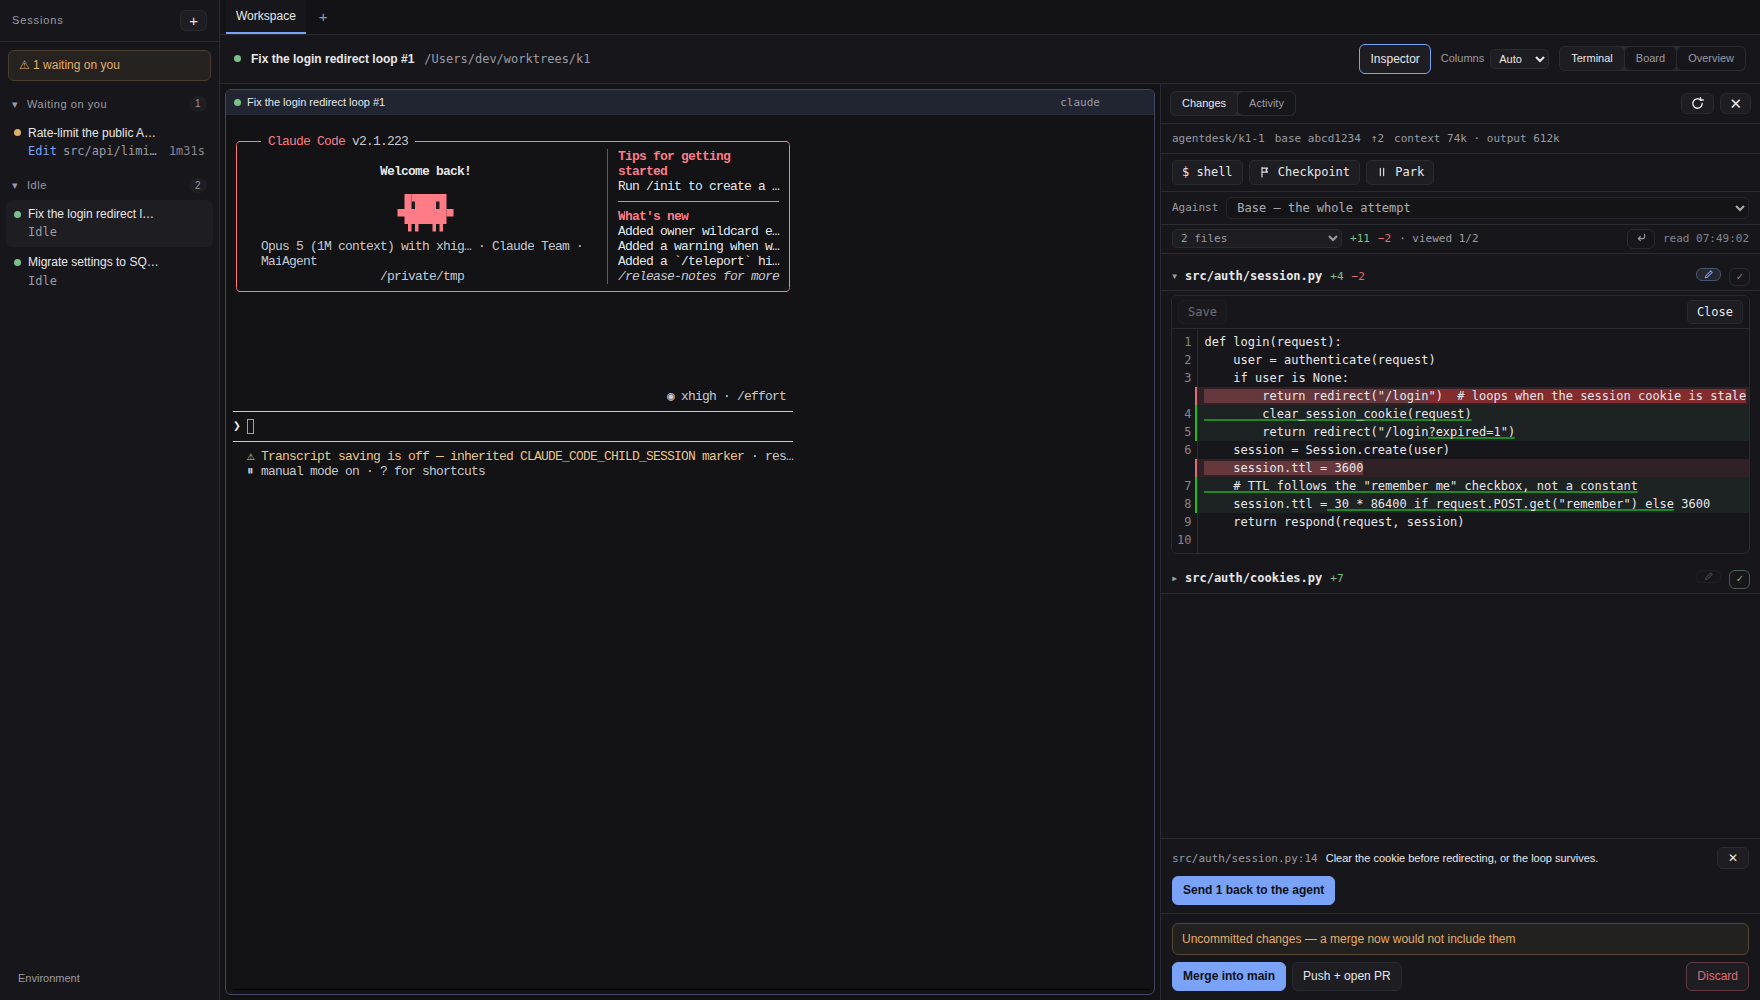
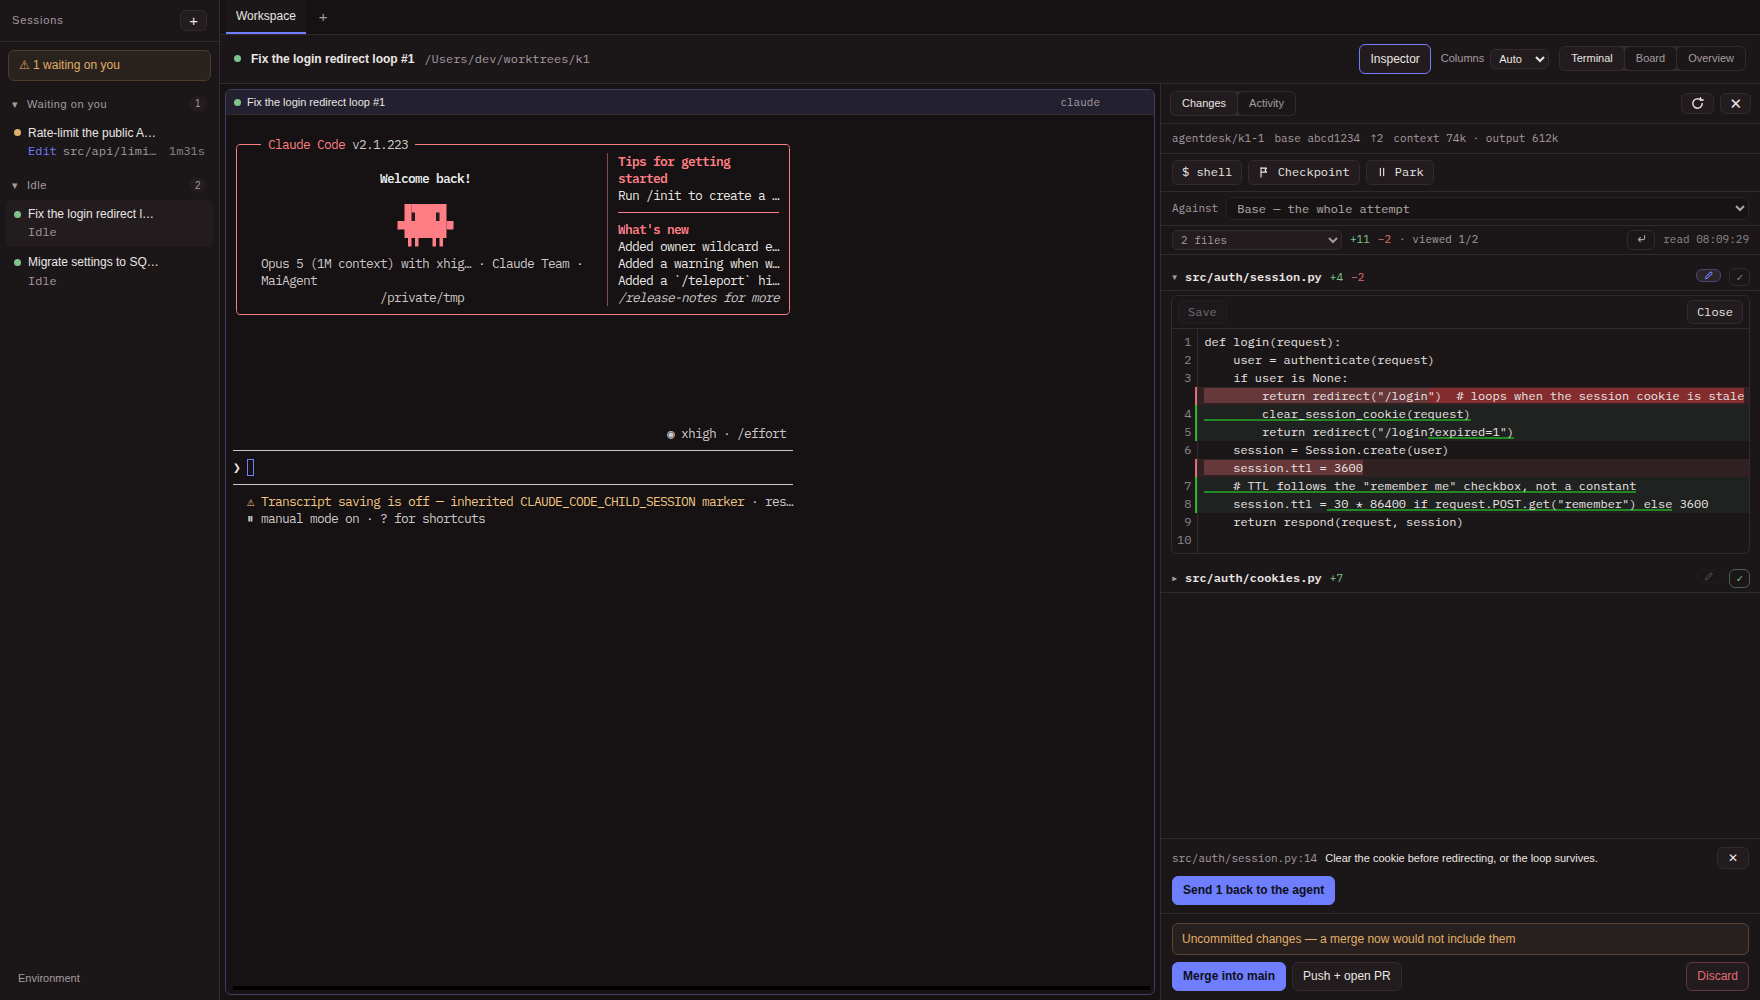
ui: the ultramarine desk — one committed jewel, a voice for the data
The app's personality lived entirely in its behavior; the surface was
anonymous — periwinkle on server-room gray, any editor theme's polite
default, system fonts throughout. This gives the visual layer the same
conviction the interaction layer already had, without moving a single
control: UX, layout, motion vocabulary, and i18n are untouched.

Three moves. The ground warms: near-black with blood in it (#161214)
under a two-percent light ramp, so the desk stops being a dead void.
The accent commits: electric ultramarine at full saturation (#6f7dff)
where the polite blue was — same semantic slot, so nothing collides
with the warn/ok/err trio, and --merged derives itself into a deeper
violet seal. And the data gets a voice: IBM Plex Mono (self-hosted,
OFL, latin subsets — CJK falls through to the system stack) for every
branch, path, stat, and the terminals themselves; the mount waits for
the face so xterm measures its grid against real metrics, and the ANSI
blue joins the accent's family so a TUI's links speak the app's blue.

The material follows: every surface that sits on the desk — cards,
panes, dialogs, toasts — lifts with the same machined one-pixel top
light (--bevel), layered into the breathe ring and the drop indicator
because box-shadow is not additive and a frame that strips the bevel
mid-cycle would flicker the material away.

Chosen against two alternatives (glacial teal, pure monochrome) with
the semantic-collision math laid out; the blue family held the only
[…]

diff --git a/ui/src/styles.css b/ui/src/styles.css
@@ -1,18 +1,22 @@
 :root {
-  --bg: #131316;
-  --bg-2: #17171b;
-  --bg-3: #1d1d22;
-  --line: #2a2a31;
-  --fg: #e7e7ea;
-  --fg-dim: #9a9aa4;
+  /* The ultramarine desk. A warm near-black ground — ink with blood in
+     it, not server-room gray — and one committed jewel: electric
+     ultramarine at full saturation, where the old periwinkle was any
+     editor theme's polite blue. Mirrored in theme.ts's ink preset. */
+  --bg: #161214;
+  --bg-2: #1b1719;
+  --bg-3: #221c1f;
+  --line: #322a2e;
+  --fg: #ebe6e3;
+  --fg-dim: #a69ba0;
   /* The quietest text that still clears 4.5:1 on every surface tier. For
      de-emphasis, use this — never opacity on a container, which drags the
      buttons and data inside it below AA with it. */
-  --fg-faint: #85858f;
-  --accent: #7aa2f7;
-  --ok: #79c08a;
+  --fg-faint: #90858b;
+  --accent: #6f7dff;
+  --ok: #7dc48d;
   --warn: #e0af68;
-  --err: #e06c75;
+  --err: #e26d72;
   --on-accent: #0d1017;
   /* The seventh meaning: merged — landed, kept, the loop's peak. Derived
      from the theme's own primaries rather than pinned to a hex, so every
@@ -50,7 +54,12 @@
      timeline, diff summary all breathe against the same left edge. */
   --gutter-x: 11px;
 
-  --mono: ui-monospace, SFMono-Regular, "SF Mono", Menlo, monospace;
+  --mono: "IBM Plex Mono", ui-monospace, SFMono-Regular, "SF Mono", Menlo, monospace;
+
+  /* The machined edge: a one-pixel light catching the top of anything
+     that sits on the desk — cards, panes, dialogs. Material, not
+     decoration: every surface lifts the same way, from the same token. */
+  --bevel: inset 0 1px 0 color-mix(in srgb, var(--fg) 7%, transparent);
 }
 
 * { box-sizing: border-box; }
@@ -66,7 +75,10 @@
 html, body, #root { height: 100%; margin: 0; }
 
 body {
-  background: var(--bg);
+  /* Not a flat fill: the desk catches light at the top and falls away —
+     a two-percent ramp, felt more than seen, that keeps the ground from
+     reading as a dead void behind the surfaces. */
+  background: linear-gradient(180deg, color-mix(in srgb, var(--fg) 2.5%, var(--bg)), var(--bg) 42%) fixed var(--bg);
   color: var(--fg);
   font-family: -apple-system, BlinkMacSystemFont, "Segoe UI", "PingFang TC",
     "Noto Sans TC", sans-serif;
@@ -214,7 +226,11 @@ textarea { resize: vertical; }
 .modal-backdrop { position: fixed; inset: 0; z-index: 100; background: rgba(0,0,0,0.55); display: flex; align-items: center; justify-content: center; }
 /* Taller than the window, a modal scrolls itself — clipping the Close
    button off-screen is a trap, not a layout. */
-.modal { background: var(--bg-2); border: 1px solid var(--line); border-radius: var(--radius-l); padding: 18px 20px; width: 520px; max-width: 92vw; max-height: 90vh; overflow-y: auto; }
+.modal {
+  background: var(--bg-2); border: 1px solid var(--line); border-radius: var(--radius-l);
+  padding: 18px 20px; width: 520px; max-width: 92vw; max-height: 90vh; overflow-y: auto;
+  box-shadow: var(--bevel), 0 18px 50px rgba(0, 0, 0, 0.5);
+}
 .modal h2 { margin: 0 0 14px; font-size: var(--fs-heading); }
 /* Section heads inside a modal that holds more than one concern: the env
    panel is settings on top, diagnostics below, and the seam should show. */
@@ -348,7 +364,7 @@ textarea { resize: vertical; }
   display: flex; align-items: center; gap: 12px; max-width: 70vw;
   padding: 9px 12px; border-radius: var(--radius); font-size: var(--fs-data);
   background: var(--bg-3); border: 1px solid var(--line);
-  box-shadow: 0 6px 24px rgba(0,0,0,0.45);
+  box-shadow: var(--bevel), 0 6px 24px rgba(0, 0, 0, 0.45);
 }
 .toast.error { border-color: color-mix(in srgb, var(--err) 35%, var(--bg-3)); color: var(--err); }
 .toast.ok { border-color: color-mix(in srgb, var(--ok) 30%, var(--bg-3)); color: var(--ok); }
@@ -449,6 +465,7 @@ textarea { resize: vertical; }
   position: relative;
   display: flex; flex-direction: column; gap: 7px;
   background: var(--bg-2); border: 1px solid var(--line);
+  box-shadow: var(--bevel);
   /* The status edge: the second axis of the board. Quiet at rest — color
      on the edge means something is HAPPENING (a turn, a blocked agent),
      never merely "a session exists". A resting color is a stripe, and a
@@ -539,6 +556,7 @@ textarea { resize: vertical; }
   min-width: 0; min-height: 0; overflow: hidden;
   border: 1px solid var(--line); border-radius: var(--radius-s);
   background: var(--bg);
+  box-shadow: var(--bevel);
 }
 .pane.focused { border-color: color-mix(in srgb, var(--accent) 25%, var(--line)); }
 .pane.drop-over { border-color: var(--accent); background: color-mix(in srgb, var(--accent) 9%, var(--bg)); }
@@ -670,6 +688,7 @@ button.board-cta:hover {
   position: relative;
   display: flex; flex-direction: column; gap: 6px;
   background: var(--bg-3); border: 1px solid var(--line);
+  box-shadow: var(--bevel);
   /* The status edge again — same signature as .ov-card, same rule:
      quiet at rest, color only while something happens. */
   /* impeccable-disable-next-line side-tab -- the 3px status edge is the product's state language */
@@ -683,7 +702,7 @@ button.board-cta:hover {
 .board-card.enterable:hover { border-color: color-mix(in srgb, var(--accent) 30%, var(--line)); }
 .board-card.dragging { opacity: 0.4; }
 /* The card the drop would land in front of. */
-.board-card.insert-before { box-shadow: 0 -2px 0 var(--accent); }
+.board-card.insert-before { box-shadow: var(--bevel), 0 -2px 0 var(--accent); }
 
 /* ---------- motion vocabulary ----------
    The product's whole motion language, in one place. Two words:
@@ -706,9 +725,11 @@ button.board-cta:hover {
   background: color-mix(in srgb, var(--warn) 5%, var(--bg-2));
   animation: breathe 2.4s ease-in-out infinite;
 }
+/* box-shadow is not additive: the ring frames carry the bevel layer,
+   or the breath would strip the card's machined edge on every cycle. */
 @keyframes breathe {
-  0%, 100% { box-shadow: 0 0 0 0 transparent; }
-  50% { box-shadow: 0 0 0 2px color-mix(in srgb, var(--warn) 28%, transparent); }
+  0%, 100% { box-shadow: var(--bevel), 0 0 0 0 transparent; }
+  50% { box-shadow: var(--bevel), 0 0 0 2px color-mix(in srgb, var(--warn) 28%, transparent); }
 }
 /* The shimmer rides the status edge only — the one stripe that already
    means "live" — so it costs no layout and shouts at nobody. */
@@ -721,7 +742,7 @@ button.board-cta:hover {
   .board-card.needs-you,
   .adhoc-chip.needs-you {
     animation: none;
-    box-shadow: 0 0 0 2px color-mix(in srgb, var(--warn) 28%, transparent);
+    box-shadow: var(--bevel), 0 0 0 2px color-mix(in srgb, var(--warn) 28%, transparent);
   }
   /* The honest static equivalent: mid-turn keeps its accent edge, it
      just stops glowing. */

diff --git a/ui/src/theme.ts b/ui/src/theme.ts
@@ -126,14 +126,18 @@ export function derive(p: Primaries): ThemeColors {
 
 export const PRESETS: Theme[] = [
   {
-    // The incumbent: every value exactly as the stylesheet has always
-    // shipped it. Choosing this theme is choosing today's app.
+    // The default: the ultramarine desk. A warm near-black ground — ink
+    // with blood in it, not server-room gray — and one committed jewel of
+    // an accent: electric ultramarine at full saturation, where the old
+    // periwinkle was any editor theme's polite blue. The semantic trio
+    // keeps its hues (they are load-bearing); --merged derives into a
+    // deeper violet-crimson on its own. Values mirror styles.css :root.
     id: 'ink',
     light: false,
     colors: {
-      bg: '#131316', bg2: '#17171b', bg3: '#1d1d22', line: '#2a2a31',
-      fg: '#e7e7ea', fgDim: '#9a9aa4', fgFaint: '#85858f',
-      accent: '#7aa2f7', ok: '#79c08a', warn: '#e0af68', err: '#e06c75',
+      bg: '#161214', bg2: '#1b1719', bg3: '#221c1f', line: '#322a2e',
+      fg: '#ebe6e3', fgDim: '#a69ba0', fgFaint: '#90858b',
+      accent: '#6f7dff', ok: '#7dc48d', warn: '#e0af68', err: '#e26d72',
     },
   },
   {
@@ -176,8 +180,8 @@ export const PRESETS: Theme[] = [
 ];
 
 export const DEFAULT_PRIMARIES: Primaries = {
-  bg: '#131316', fg: '#e7e7ea', accent: '#7aa2f7',
-  ok: '#79c08a', warn: '#e0af68', err: '#e06c75',
+  bg: '#161214', fg: '#ebe6e3', accent: '#6f7dff',
+  ok: '#7dc48d', warn: '#e0af68', err: '#e26d72',
 };
 
 /* ------------------------------------------------------------------ */
@@ -242,14 +246,16 @@ export function applyTheme(stored: StoredTheme): Theme {
 /* ------------------------------------------------------------------ */
 
 const ANSI_DARK = {
-  black: '#1d1d22', brightBlack: '#5a5a66',
-  red: '#e06c75', brightRed: '#ff7b86',
-  green: '#79c08a', brightGreen: '#8fd6a0',
+  // Warmed to sit on the ultramarine desk's ground; blue is the accent's
+  // own family so a TUI's links and headers speak the app's blue.
+  black: '#221c1f', brightBlack: '#5f5760',
+  red: '#e26d72', brightRed: '#ff7d84',
+  green: '#7dc48d', brightGreen: '#93daa3',
   yellow: '#e0af68', brightYellow: '#f0c584',
-  blue: '#7aa2f7', brightBlue: '#93b6ff',
+  blue: '#8a96ff', brightBlue: '#a4adff',
   magenta: '#bb9af7', brightMagenta: '#d0b4ff',
   cyan: '#56b6c2', brightCyan: '#6fd3e0',
-  white: '#c8c8d0', brightWhite: '#ffffff',
+  white: '#cdc6c8', brightWhite: '#ffffff',
 };
 
 /** On paper the classic ANSI brights wash out; every slot darkens. */

diff --git a/ui/src/main.tsx b/ui/src/main.tsx
@@ -3,16 +3,33 @@ import ReactDOM from 'react-dom/client';
 import App from './App';
 import { I18nProvider } from './i18n';
 import { applyTheme, loadStored } from './theme';
+// The product's voice for data — branches, paths, stats, and the
+// terminals themselves. Self-hosted (OFL), latin only: CJK falls through
+// to the system stack, and the mono layer is ASCII-heavy by nature.
+import '@fontsource/ibm-plex-mono/400.css';
+import '@fontsource/ibm-plex-mono/500.css';
+import '@fontsource/ibm-plex-mono/600.css';
 import '@xterm/xterm/css/xterm.css';
 import './styles.css';
 
 // Before the first paint, so a saved theme never flashes the default one.
 applyTheme(loadStored());
 
-ReactDOM.createRoot(document.getElementById('root')!).render(
-  <React.StrictMode>
-    <I18nProvider>
-      <App />
-    </I18nProvider>
-  </React.StrictMode>,
-);
+// xterm measures its cell grid from the font that is loaded at open. The
+// face is a local woff2 — milliseconds — but a terminal measured against
+// the fallback and repainted in Plex would tear its own grid, so the
+// mount waits for the font (bounded: past 500ms, fallback metrics win).
+const ready = Promise.race([
+  document.fonts.load('13px "IBM Plex Mono"').catch(() => undefined),
+  new Promise((r) => setTimeout(r, 500)),
+]);
+
+void ready.then(() => {
+  ReactDOM.createRoot(document.getElementById('root')!).render(
+    <React.StrictMode>
+      <I18nProvider>
+        <App />
+      </I18nProvider>
+    </React.StrictMode>,
+  );
+});

diff --git a/ui/src/components/TerminalView.tsx b/ui/src/components/TerminalView.tsx
@@ -57,8 +57,10 @@ export function TerminalView({
     let disposed = false;
 
     const term = new Terminal({
+      // The product's own mono. main.tsx holds the mount until this face
+      // is loaded, so the cell grid is measured against the real metrics.
       fontFamily:
-        'ui-monospace, SFMono-Regular, "SF Mono", Menlo, Monaco, "Courier New", monospace',
+        '"IBM Plex Mono", ui-monospace, SFMono-Regular, "SF Mono", Menlo, Monaco, "Courier New", monospace',
       fontSize: 13,
       // Exactly 1. Anything larger leaves a gap between rows, and a TUI drawn
       // from box characters visibly comes apart at every horizontal rule.

diff --git a/ui/tests/theme.spec.ts b/ui/tests/theme.spec.ts
@@ -30,7 +30,8 @@ test.describe('themes', () => {
     // And back: the default preset is today's exact palette.
     await openTheming(page);
     await page.getByTestId('theme-ink').click();
-    await expect(page.locator('body')).toHaveCSS('background-color', 'rgb(19, 19, 22)');
+    // The ultramarine desk's warm near-black — #161214.
+    await expect(page.locator('body')).toHaveCSS('background-color', 'rgb(22, 18, 20)');
   });
 
   test('custom colors apply live, with the contrast floor shown', async ({ page }) => {
